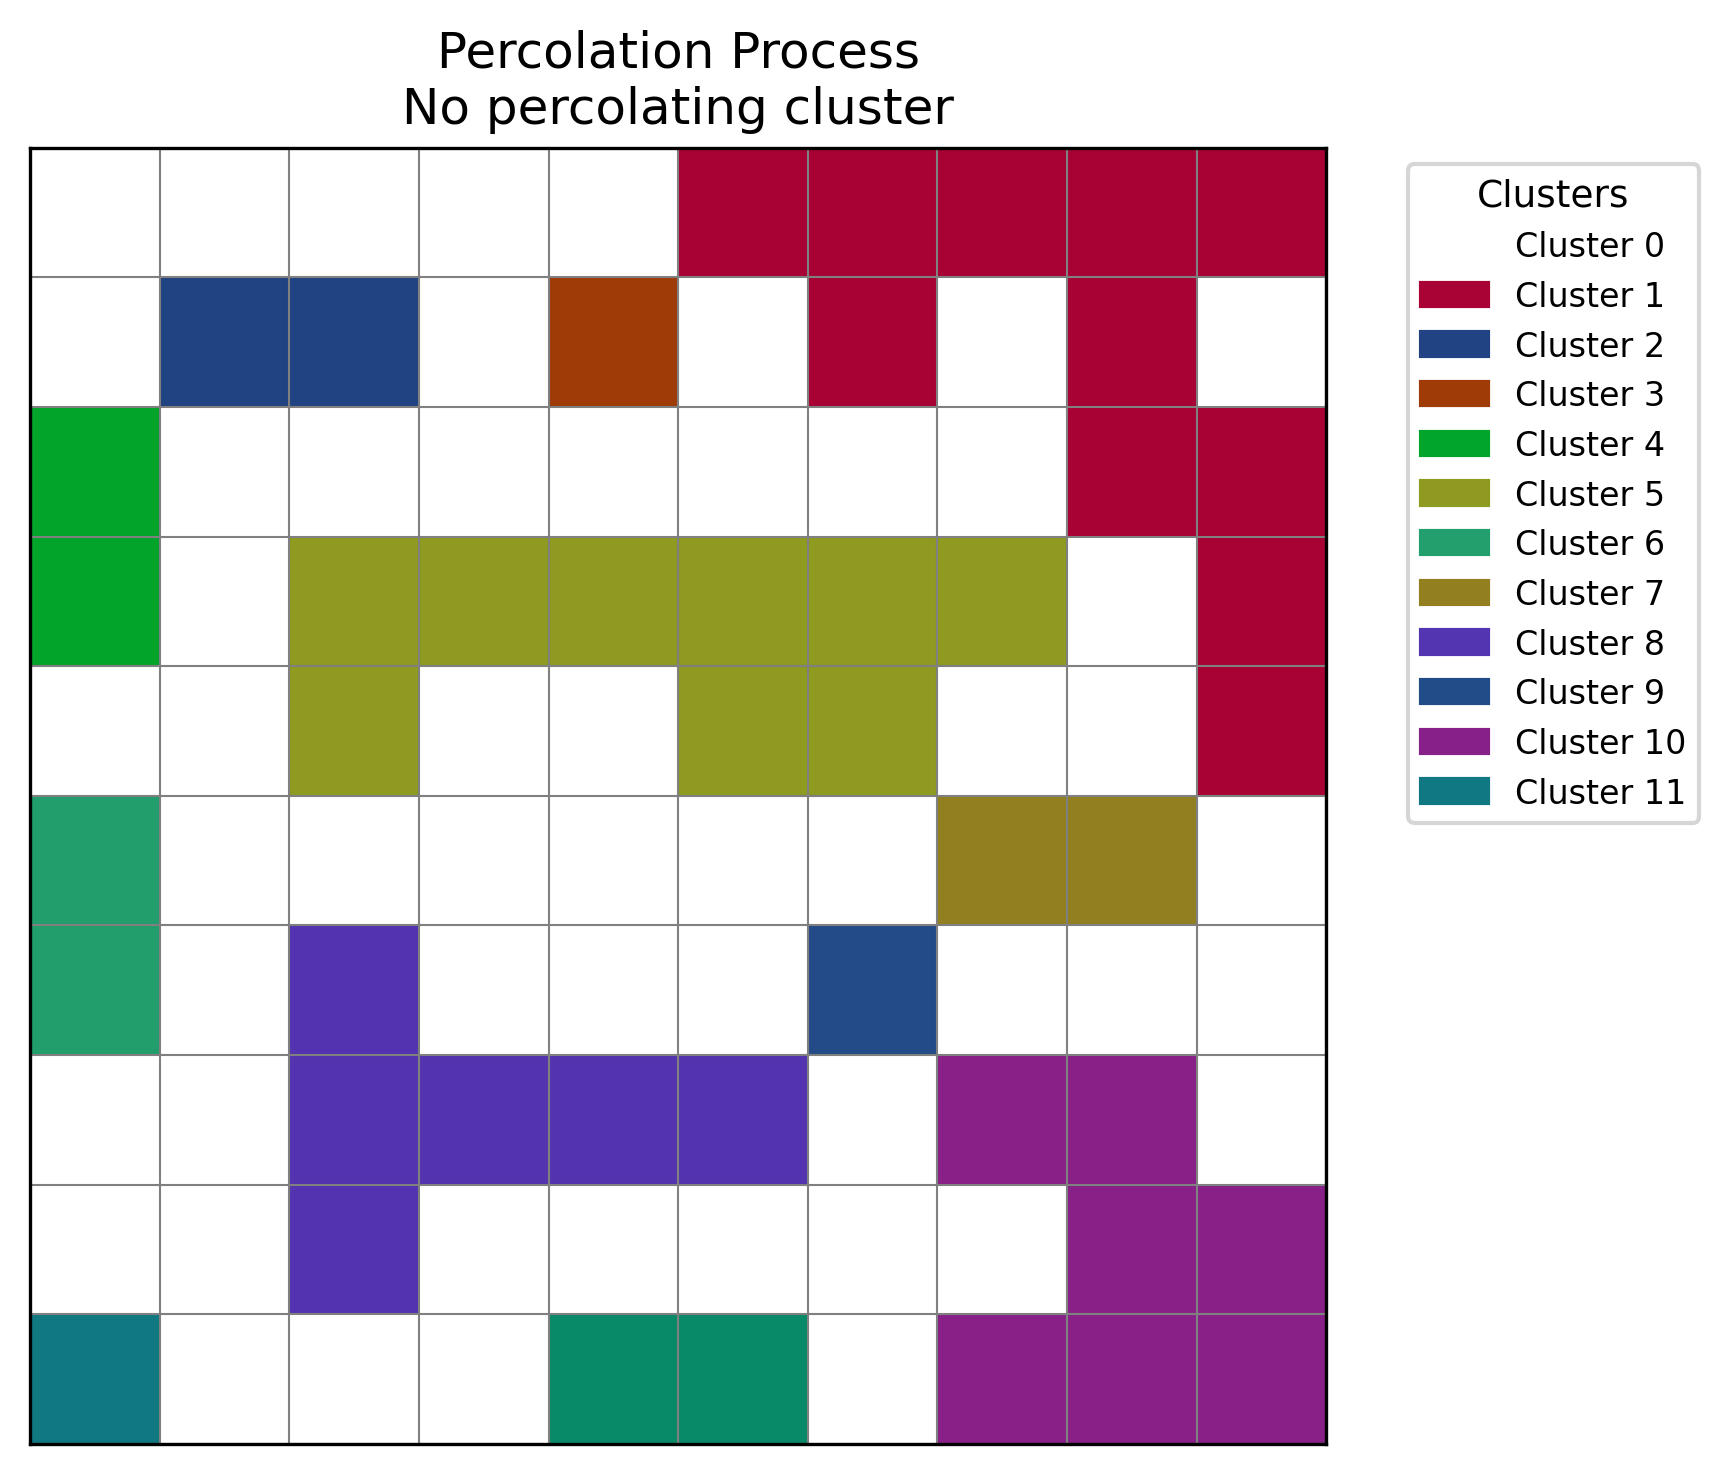
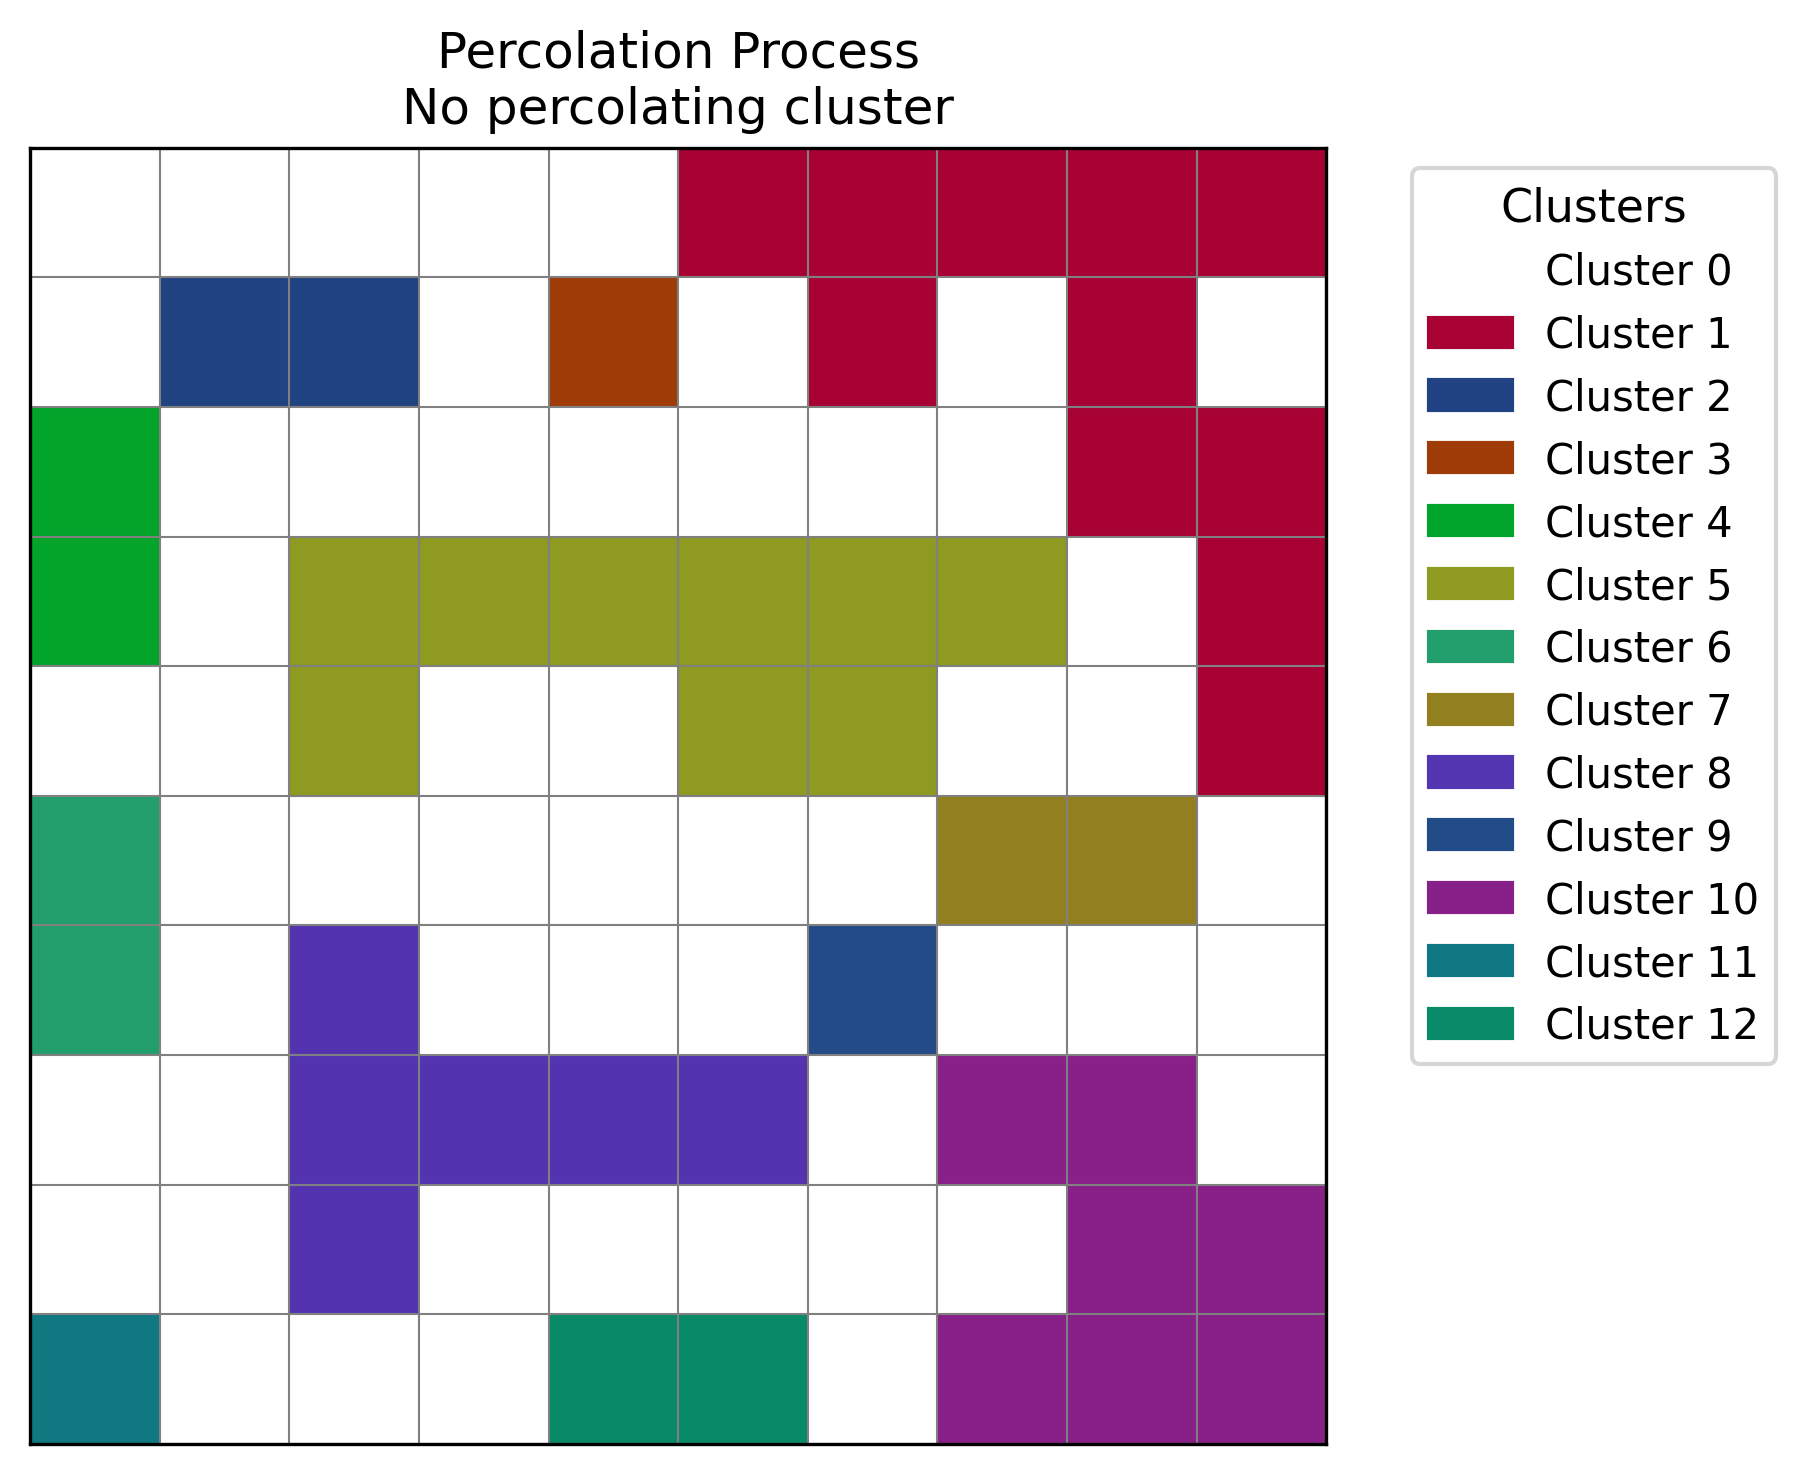
label de la grafica de clustervisualize.py arreglado

diff --git a/figures/clustervisualize.py b/figures/clustervisualize.py
@@ -27,12 +27,15 @@ def read_matrix_and_metadata(file):
             cluster_size = int(size_match.group(1))
             continue
         
-        # Process numeric lines
+        # Process numeric lines - FIXED: Better handling of multi-digit numbers
         if line and not any(c.isalpha() for c in line):
+            # Split by whitespace and process each token
+            tokens = line.split()
             row = []
-            for num in line.split():
+            for token in tokens:
                 try:
-                    row.append(int(num))
+                    # This will correctly handle multi-digit numbers like 10, 11, etc.
+                    row.append(int(token))
                 except ValueError:
                     continue
             
@@ -87,11 +90,6 @@ def visualize_matrix(matrix, cluster_size=None, save_path="percolation.png"):
     bounds = np.append(unique_labels, unique_labels[-1]+1) - 0.5
     norm = mcolors.BoundaryNorm(bounds, custom_cmap.N)
 
-    
-    custom_cmap = mcolors.ListedColormap(colors)
-    bounds = np.append(unique_labels, unique_labels[-1]+1) - 0.5
-    norm = mcolors.BoundaryNorm(bounds, custom_cmap.N)
-
     # Create figure with appropriate size for 100x100 matrix
     fig, ax = plt.subplots()
     img = ax.imshow(matrix, cmap=custom_cmap, norm=norm, interpolation='none')
@@ -121,14 +119,17 @@ def visualize_matrix(matrix, cluster_size=None, save_path="percolation.png"):
     plt.title(title, fontsize=12)
     
     # Legend (only show if reasonable number of labels)
-    if num_labels <= 20:
-        legend_elements = [plt.Rectangle((0,0), 1, 1, 
-                           color=colors[i], 
-                           label=f'Cluster {unique_labels[i]}') 
-                          for i in range(num_labels)]
+    if len(unique_labels) <= 20:
+        # Create legend mapping each unique label to its color
+        legend_elements = []
+        for i, label in enumerate(unique_labels):
+            legend_elements.append(plt.Rectangle((0,0), 1, 1, 
+                                   color=colors[i], 
+                                   label=f'Cluster {label}'))
+        
         ax.legend(handles=legend_elements, title="Clusters",
                   bbox_to_anchor=(1.05, 1), loc='upper left',
-                  fontsize=8, title_fontsize=9)
+                  fontsize=10, title_fontsize=11)
 
     # Adjust layout with constrained_layout instead of tight_layout
     fig.set_constrained_layout(True)
